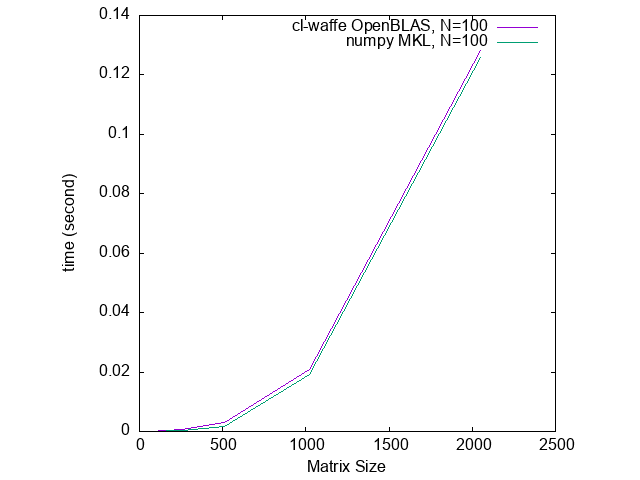
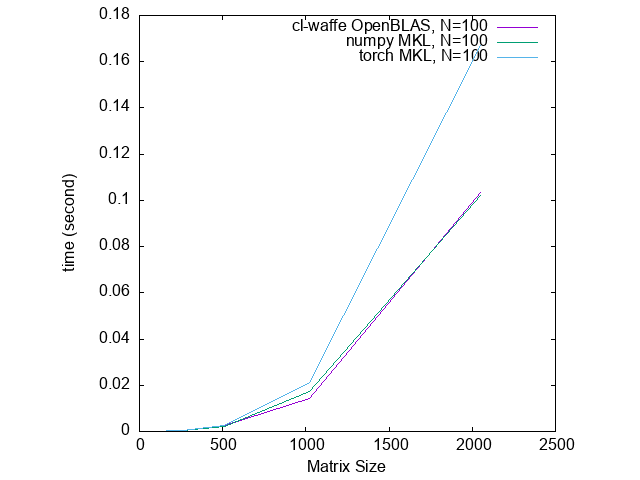
added: benchmark for PyTorch

diff --git a/benchmark/torch_benchmark.py b/benchmark/torch_benchmark.py
@@ -1,0 +1,187 @@
+
+# Here's benchmark for Torch
+
+"""
+Sections
+1. Matmul (2D * 2D)
+2. Broadcasting
+3. Slicing Tensor
+4. Complicated Exps (denselayer)
+"""
+
+import torch
+import matplotlib.pyplot as plt
+from time import time
+from statistics import mean
+import json
+
+#torch.set_default_tensor_type(torch.float32)
+
+# Parameters
+BACKEND_NAME = "MKL"
+N = 100
+BATCH_SIZE = 10000
+MATMUL_SIZE = [16, 32, 64, 256, 512, 1024, 2048]
+BROADCASTING_SHAPE = [[[10, 10, 1], [1, 10, 10]],
+                      [[100, 100, 1], [1, 100, 100]],
+                      [[200, 200, 1], [1, 200, 200]],
+                      [[300, 300, 1], [1, 300, 300]]]
+
+SLICE_SIZE = [512, 1024, 2048, 4096, 8192]
+NN_SIZE   =  [256, 512, 1024, 2048]
+
+RESULT_DIR = './benchmark/results/torch_result.json'
+RESULTS = []
+
+# Files
+MATMUL_RESULT_DIR = './benchmark/results/matmul_torch.png'
+BROADCASTING_RESULT_DIR = './benchmark/results/broadcasting_torch.png'
+SLICING_RESULT_DIR = './benchmark/results/slicing_torch.png'
+NN_RESULT_DIR = './benchmark/results/dense_torch.png'
+
+# Counters
+matmul_try_n = 1
+broadcasting_try_n = 1
+slicing_try_n = 1
+nn_try_n = 1
+
+def matmul_2D(K=1000):
+    global matmul_try_n
+    print(f"[{matmul_try_n}/{len(MATMUL_SIZE)}] Testing on {K}*{K} Matrix for {N} times...")
+    matmul_try_n += 1
+    x = torch.randn(K, K)
+    def run_test():
+        t1 = time()
+        torch.matmul(x, x)
+        t2 = time()
+        return t2 - t1
+    return [run_test() for i in range(N)]
+
+def broadcasting_2D(K):
+    global broadcasting_try_n
+    print(f"[{broadcasting_try_n}/{len(BROADCASTING_SHAPE)}] Testing on Matrix.size()[1]={K[0][1]} for {N} times...")
+    broadcasting_try_n += 1
+    a = torch.randn(K[0][0], K[0][1], K[0][2])
+    b = torch.randn(K[1][0], K[1][1], K[1][2])
+
+    def run_test():
+        t1 = time()
+        torch.add(a, b)
+        t2 = time()
+        return t2 - t1
+    return [run_test() for i in range(N)]
+
+def nn_bench(K):
+    global nn_try_n
+    print(f"[{nn_try_n}/{len(NN_SIZE)}] Testing on {BATCH_SIZE}*{K} Matrix for {N} times...")
+    nn_try_n += 1
+    x = torch.randn(BATCH_SIZE, K)
+    model = torch.nn.Linear(K, 10)
+    relu  = torch.nn.ReLU()
+    
+    def run_test():
+        t1 = time()
+        relu(model(x))
+        t2 = time()
+        return t2 - t1
+    return [run_test() for i in range(N)]
+    
+def slicing_bench(K):
+    global slicing_try_n
+    print(f"[{slicing_try_n}/{len(SLICE_SIZE)}] Testing on {K}*{K} Matrix for {N} times...")
+    slicing_try_n += 1
+    a = torch.randn(K, K)
+
+    def run_test():
+        t1 = time()
+        _ = a[:, 200:400]
+        t2 = time()
+        return t2 - t1
+    return [run_test() for i in range(N)]
+
+def main():
+    print("Benchmarking PyTorch...")
+    print("ℹ Running matmul_2D...")
+    print("")
+    matmul_result = []
+    for case in MATMUL_SIZE:
+        result = matmul_2D(K=case)
+        matmul_result.append(mean(result))
+    plt.plot(MATMUL_SIZE, matmul_result)
+    plt.title(f"matmul (Torch + {BACKEND_NAME}) (N={N})")
+    plt.xlabel("Matrix Size")
+    plt.ylabel("time (second)")
+    plt.savefig(MATMUL_RESULT_DIR)
+    print(f"⭕ The result is correctly saved at {MATMUL_RESULT_DIR}")
+
+
+
+    print("Running broadcasting...")
+    print("")
+    plt.cla()
+    broadcasting_result = []
+    for case in BROADCASTING_SHAPE:
+        result = broadcasting_2D(case)
+        broadcasting_result.append(mean(result))
+    plt.plot([K[0][1] for K in BROADCASTING_SHAPE], broadcasting_result)
+    plt.title(f"broadcasting (Torch + {BACKEND_NAME}) (N={N})")
+    plt.xlabel("Matrix Size")
+    plt.ylabel("time (second)")
+    plt.savefig(BROADCASTING_RESULT_DIR)
+    # Todo Output to CSV and merge graphs
+    print(f"⭕ The result is correctly saved at {BROADCASTING_RESULT_DIR}")
+
+
+    
+    print("Running slicing...")
+    print("")
+    plt.cla()
+    slicing_result = []
+    for case in SLICE_SIZE:
+        result = slicing_bench(case)
+        slicing_result.append(mean(result))
+    plt.plot(SLICE_SIZE, slicing_result)
+    plt.title(f"slicing (Torch + {BACKEND_NAME}) (N={N})")
+    plt.xlabel("Matrix Size")
+    plt.ylabel("time (second)")
+    plt.savefig(SLICING_RESULT_DIR)
+    print(f"⭕ The result is correctly saved at {SLICING_RESULT_DIR}")
+    
+
+    print("Running Dense...")
+    print("")
+    plt.cla()
+    dense_result = []
+    for case in NN_SIZE:
+        result = nn_bench(case)
+        dense_result.append(mean(result))
+    plt.plot(NN_SIZE, dense_result)
+    plt.title(f"DenseLayer(ReLU) (Torch + {BACKEND_NAME}) (N={N}, BATCH_SIZE={BATCH_SIZE})")
+    plt.xlabel("Matrix Size")
+    plt.ylabel("time (second)")
+    plt.savefig(NN_RESULT_DIR)
+    print(f"⭕ The result is correctly saved at {NN_RESULT_DIR}")
+
+    
+    RESULTS = [{"backend":f"torch version: {torch.__version__}, works on {BACKEND_NAME}"},
+               {"dtype":"single-float(float32)"},
+               {"matmul":{"desc":f"{BACKEND_NAME}, N={N}",
+                          "x-seq":MATMUL_SIZE,
+                          "y-seq":matmul_result}},
+               {"broadcasting":{"desc":f"{BACKEND_NAME}, N={N}",
+                                "x-seq":[K[0][1] for K in BROADCASTING_SHAPE],
+                                "y-seq":broadcasting_result}},
+               {"slice":{"desc":f"{BACKEND_NAME}, N={N}",
+                          "x-seq":SLICE_SIZE,
+                          "y-seq":slicing_result}},
+               {"DenseLayer":{"desc":f"{BACKEND_NAME}, N={N}",
+                              "x-seq":NN_SIZE,
+                              "y-seq":dense_result}}]
+
+    with open(RESULT_DIR, mode='w') as f:
+        f.write(json.dumps(RESULTS))
+    
+
+if __name__ == "__main__":
+    with torch.no_grad():
+        main()

diff --git a/benchmark/Result.md b/benchmark/Result.md
@@ -1,6 +1,6 @@
 # Benchmarking
 
-The latest benchmark is executed at 14:20:23 of Saturday, 3/25/2023 (GMT+9)
+The latest benchmark is executed at 14:54:50 of Saturday, 3/25/2023 (GMT+9)
 
 First, as a matrix arithmetic library, I measured benchmarks compared to NumPy as impartial as possible..
 
@@ -22,8 +22,8 @@ all benchmark is working on single-float(np.float32)
 
 ### cl-waffe
 
-- Working on SBCL [2.3.2]
-- cl-waffe (latest, 14:20:23 of Saturday, 3/25/2023 (GMT+9))
+- Working on SBCL [2.1.0]
+- cl-waffe (latest, 14:54:50 of Saturday, 3/25/2023 (GMT+9))
 
 ```lisp
 cl-user::*lla-configuration*
@@ -92,3 +92,7 @@ Computes (!aref (!randn `(,K ,K)) t '(200 400)) for N times.
 Computes denselayer (defined as out = `(!relu (!add (!matmul weight x) bias))`) for N times.
 
 ![result](./results/denselayer.png)
+## cl-waffe and PyTorch
+
+coming soon...
+
